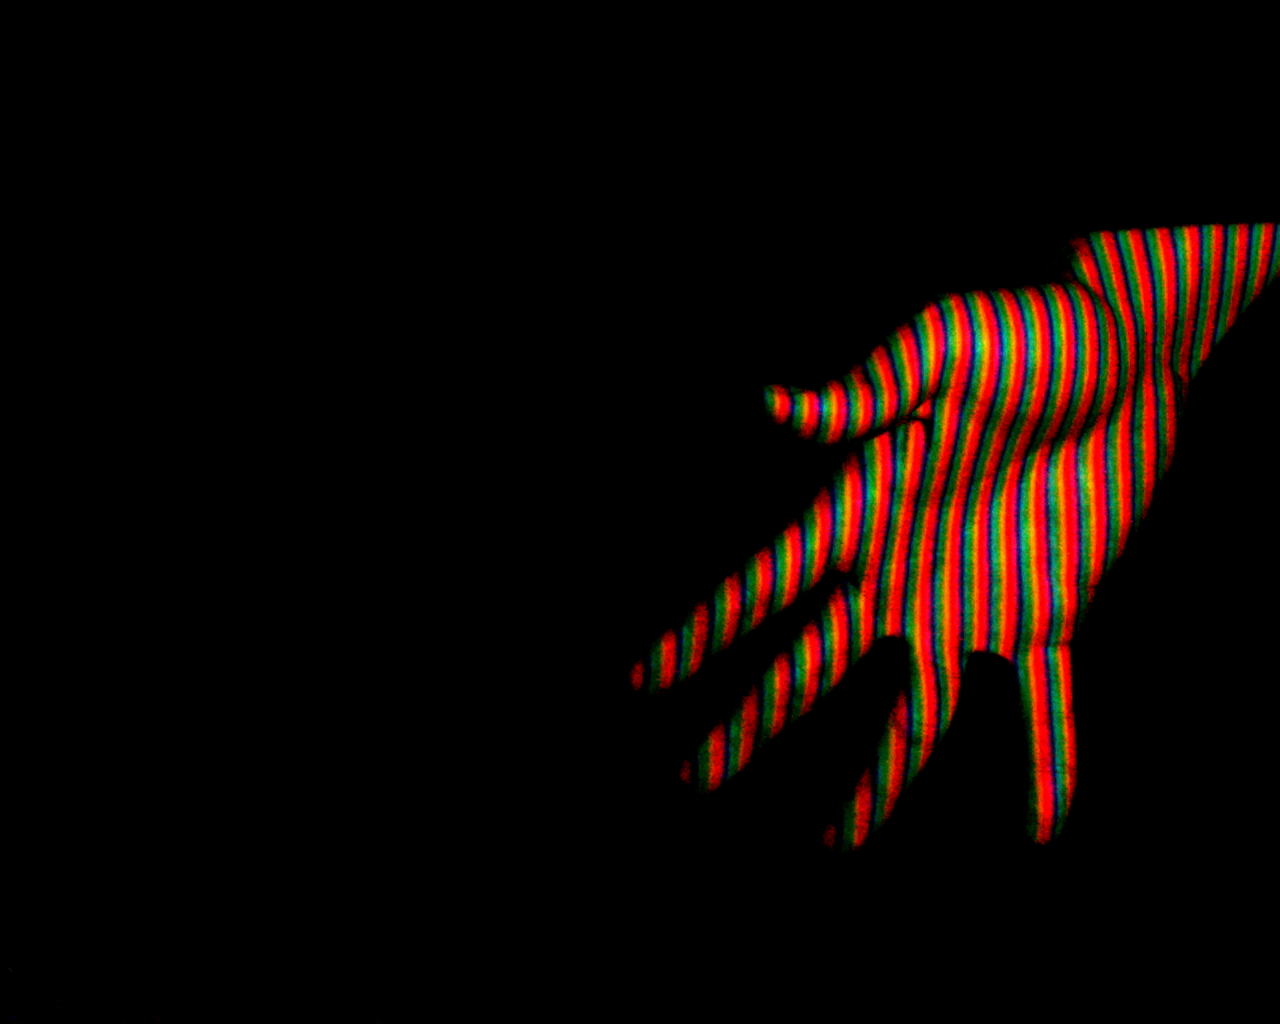
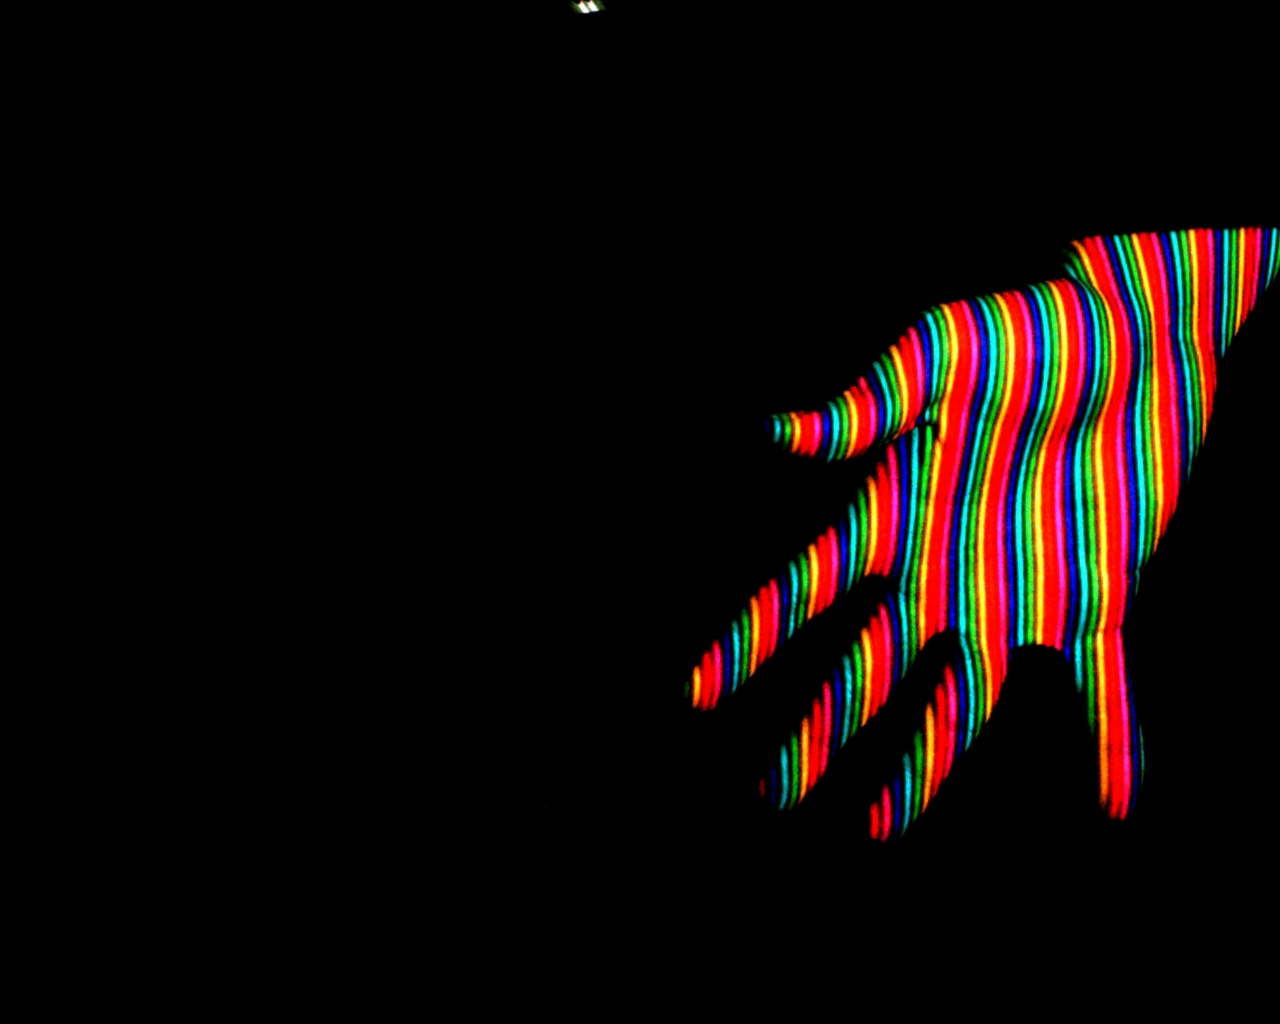
Add depth range estimation part

Changed region(s): [[0.4688, 0.2188, 1.0, 0.8438], [0.4375, 0.0, 0.4688, 0.0312]]

diff --git a/MatlabWorkSpace/ImageAnalysis/GenerateDepthRange.m b/MatlabWorkSpace/ImageAnalysis/GenerateDepthRange.m
@@ -1,0 +1,102 @@
+pro_path = 'E:/SLDataSet/20180626/HandMove_BlkDis/pro/';
+dyna_path = [main_file_path, 'dyna/'];
+class_path = [main_file_path, 'class_res/'];
+mask_path = [main_file_path, 'mask_res/'];
+x_range_path = [main_file_path, 'pro_range_res/'];
+
+pro_mat = load([pro_path, 'xpro_mat', '0', '.txt']);
+mask_mat = imread([mask_path, 'mask', '0', '.png']);
+class_mat = imread([class_path, 'class', '0', '.png']);
+dyna_mat = imread([dyna_path, 'dyna_mat', '0', '.png']);
+
+% Fill initial pro_mat
+x_pro_mat = pro_mat;
+flag = true;
+while flag
+  flag = false;
+  tmp_mat = x_pro_mat;
+  for h = 1:1024
+    for w = 1:1280
+      if mask_mat(h, w) == 0
+        continue;
+      end
+      if x_pro_mat(h, w) > 0
+        for nh = h-1:h+1
+          for nw = w-1:w+1
+            if nw > 1280
+              continue;
+            end
+            if tmp_mat(nh, nw) < 0
+              tmp_mat(nh, nw) = x_pro_mat(h, w);
+              flag = true;
+            end
+          end
+        end
+      end
+    end
+  end
+  x_pro_mat = tmp_mat;
+end
+
+% Calculate depth range
+last_x_pro_range = x_pro_mat;
+last_mask_mat = mask_mat;
+for frm_idx = 1:100
+  x_pro_range = zeros(1024, 1280);
+  dyna_mat = imread([dyna_path, 'dyna_mat', num2str(frm_idx), '.png']);
+  mask_mat = imread([mask_path, 'mask', num2str(frm_idx), '.png']);
+  class_mat = imread([class_path, 'class', num2str(frm_idx), '.png']);
+  for h = 1:1024
+    for w = 1:1280
+      if mask_mat(h, w) == 0
+        continue;
+      end
+      % Get last x_pro
+      tmp_vec = zeros(25, 1);
+      valid_num = 0;
+      for nh = h-5:h+5
+        for nw = w-5:w+5
+          if nw > 1280
+            continue;
+          end
+          if last_mask_mat(nh, nw) == 0
+            continue;
+          end
+          valid_num = valid_num + 1;
+          tmp_vec(valid_num) = last_x_pro_range(nh, nw);
+          if tmp_vec(valid_num) == 0
+            continue;
+          end
+        end
+      end
+      last_x_pro = median(tmp_vec(1:valid_num));
+      if isnan(last_x_pro)
+        for nh = h:-1:1
+          if mask_mat(h, w) == 1
+            last_x_pro = x_pro_range(nh, w);
+            break;
+          end
+        end
+        continue;
+      end
+      
+      % Get period
+      class_num = double(7 - class_mat(h, w) / 10);
+      left_value = floor((last_x_pro - 12*class_num) / 72) * 72 + 12*class_num;
+      right_value = ceil((last_x_pro - 12*class_num) / 72) * 72 + 12*class_num;
+      if abs(last_x_pro - left_value) < abs(right_value - last_x_pro)
+        x_pro_range(h, w) = left_value;
+      else
+        x_pro_range(h, w) = right_value;
+      end
+      if x_pro_range(h, w) < 100 || isnan(x_pro_range(h, w))
+        continue;
+      end
+    end
+  end
+  fprintf('frm_idx=%d\n', frm_idx); 
+  last_x_pro_range = x_pro_range;
+  last_mask_mat = mask_mat;
+  imshow(x_pro_range, [300, 1280]);
+  imwrite(uint16(x_pro_range), [x_range_path, 'xpro_range', num2str(frm_idx), '.png']);
+end

diff --git a/MatlabWorkSpace/ImageAnalysis/KMeansClassfication.m b/MatlabWorkSpace/ImageAnalysis/KMeansClassfication.m
@@ -1,0 +1,55 @@
+% Used for image classification. Use k-means for classification.
+% In HSV(H) channel.
+dyna_path = [main_file_path, 'dyna/'];
+class_path = [main_file_path, 'class_res/'];
+mask_path = [main_file_path, 'mask_res/'];
+
+img = imread([dyna_path, 'dyna_mat', num2str(frm_idx), '.png']);
+
+center_intensity = [0, 42, 91, 127, 170, 230];
+
+% Get mask
+hsv_img = rgb2hsv(img);
+raw_mask = imbinarize(hsv_img(:, :, 2), 0.1);
+se = strel('disk',3);
+raw_mask_dil = imdilate(raw_mask, se);
+mask_final = imerode(raw_mask_dil, se);
+
+% Hand-make delete:
+mask_final(1:200, :) = 0;
+mask_final(:, 1:600) = 0;
+mask_final(870:end, :) = 0;
+
+class_info = hsv_img(:, :, 1) * 255;
+class_mask = zeros(1024, 1280);
+while true
+  new_center_intensity = zeros(1, 6);
+  new_center_num = zeros(1, 6);
+  for h = 1:1024
+    for w = 1:1280
+      if mask_final(h, w) == 0
+        continue;
+      end
+      min_val = 256;
+      min_idx = 0;
+      for c = 1:6
+        if min_val > abs(class_info(h, w) - center_intensity(c))
+          min_val = abs(class_info(h, w) - center_intensity(c));
+          min_idx = c;
+        end
+      end
+      class_mask(h, w) = min_idx;
+      new_center_intensity(min_idx) = new_center_intensity(min_idx) + class_info(h, w);
+      new_center_num(min_idx) = new_center_num(min_idx) + 1;
+    end
+  end
+  new_center_intensity = new_center_intensity ./ new_center_num;
+  if norm(new_center_intensity - center_intensity) < 0.1
+    break;
+  else
+    center_intensity = new_center_intensity;
+  end
+end
+imshow(class_mask, [0, 6]);
+imwrite(uint8(class_mask*10), [class_path, 'class', num2str(frm_idx), '.png']);
+imwrite(mask_final, [mask_path, 'mask', num2str(frm_idx), '.png']);

diff --git a/MatlabWorkSpace/ImageAnalysis/ImageAnalysis.m b/MatlabWorkSpace/ImageAnalysis/ImageAnalysis.m
@@ -1,36 +1,6 @@
-frm_idx = 1;
+warning('off');
+main_file_path = 'E:/SLDataSet/20180626/HandMove_BlkDis/';
 
-raw_img = imread(['dyna_mat', num2str(frm_idx), '.png']);
-
-hsv_img = rgb2hsv(raw_img);
-
-hsv_img(:, :, 2) = 1;
-for h = 1:1024
-  for w = 1:1280
-    if hsv_img(h, w, 3) > 0.2
-      hsv_img(h, w, 3) = 1.0;
-    else
-      hsv_img(h, w, 3) = 0.0;
-    end
-  end
+for frm_idx = 0:300
+  KMeansClassfication;
 end
-
-imshow(hsv2rgb(hsv_img));
-
-rgb_img = hsv2rgb(hsv_img);
-
-thred = [0.6, 0.5, 0.05];
-
-new_rgb_img = zeros(1024, 1280);
-for h = 1:1024
-  for w = 1:1280
-    for c = 1:3
-      if rgb_img(h, w, c) > thred(c)
-        new_rgb_img(h, w, c) = 1.0;
-      else
-        new_rgb_img(h, w, c) = 0.0;
-      end
-    end
-  end
-end
-imshow(new_rgb_img);

diff --git a/MatlabWorkSpace/ImageAnalysis/RGBChannalClassification.m b/MatlabWorkSpace/ImageAnalysis/RGBChannalClassification.m
@@ -1,0 +1,13 @@
+img = imread([file_path, 'dyna_mat', num2str(frm_idx), '.png']);
+
+channal_thred = [50, 100, 100];
+
+bw_img = zeros(size(img));
+fixed_img = zeros(size(img));
+for c = 1:3
+  bw_img(:, :, c) = imbinarize(double(img(:, :, c)), channal_thred(c));
+  se = strel('disk',c);
+  dil_mat = imdilate(bw_img(:, :, c), se);
+  fixed_img(:, :, c) = imerode(dil_mat, se);
+end
+imshow(fixed_img);
